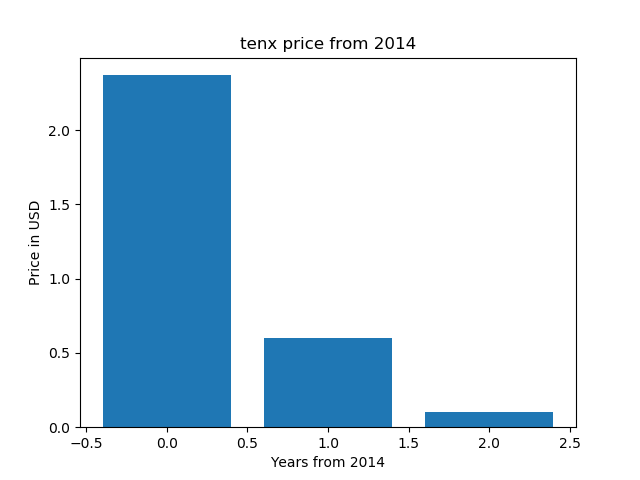
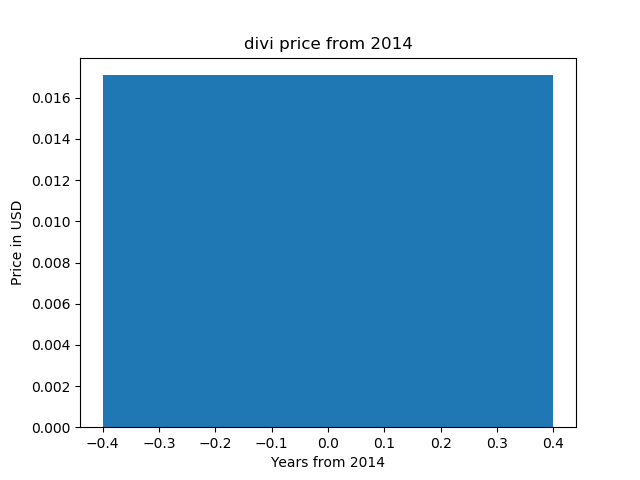
first commit

diff --git a/example.py b/example.py
@@ -10,7 +10,7 @@ from time import gmtime, strftime
 import matplotlib.pyplot as plt
 
 enddate = strftime("%Y%m%d", gmtime())
-r  = requests.get("https://coinmarketcap.com/currencies/tenx/historical-data/?start=20140101&end={0}".format(enddate))
+r  = requests.get("https://coinmarketcap.com/currencies/divi/historical-data/?start=20140101&end={0}".format(enddate))
 data = r.text
 
 soup = BeautifulSoup(data, "html.parser")
@@ -44,7 +44,7 @@ print(x)
 
 x = list(range(0, len(prices)))
 
-plt.title('tenx price from 2014')
+plt.title('divi price from 2014')
 plt.ylabel('Price in USD')
 plt.xlabel('Years from 2014')
 plt.bar(x, prices)

diff --git a/README.md b/README.md
@@ -1,6 +1,6 @@
-# tenx price chart 
+# divi price chart 
 
-tenx price chart (matplotlib, python)
+divi price chart (matplotlib, python)
 
 https://pythonprogramminglanguage.com
 
